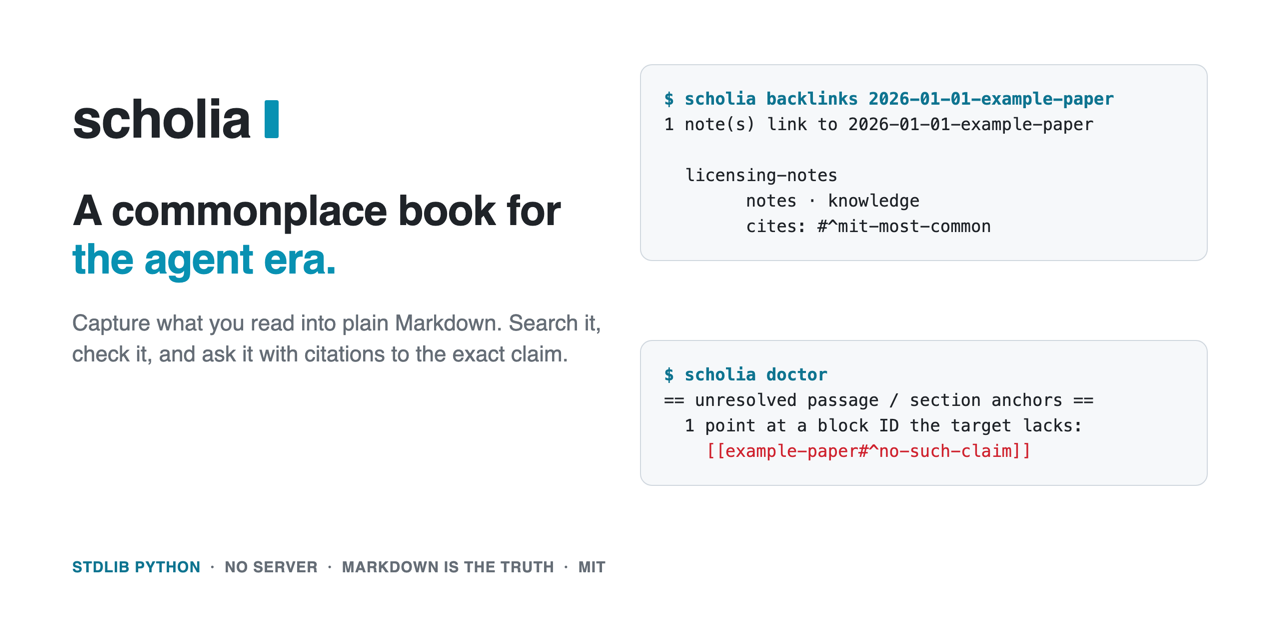
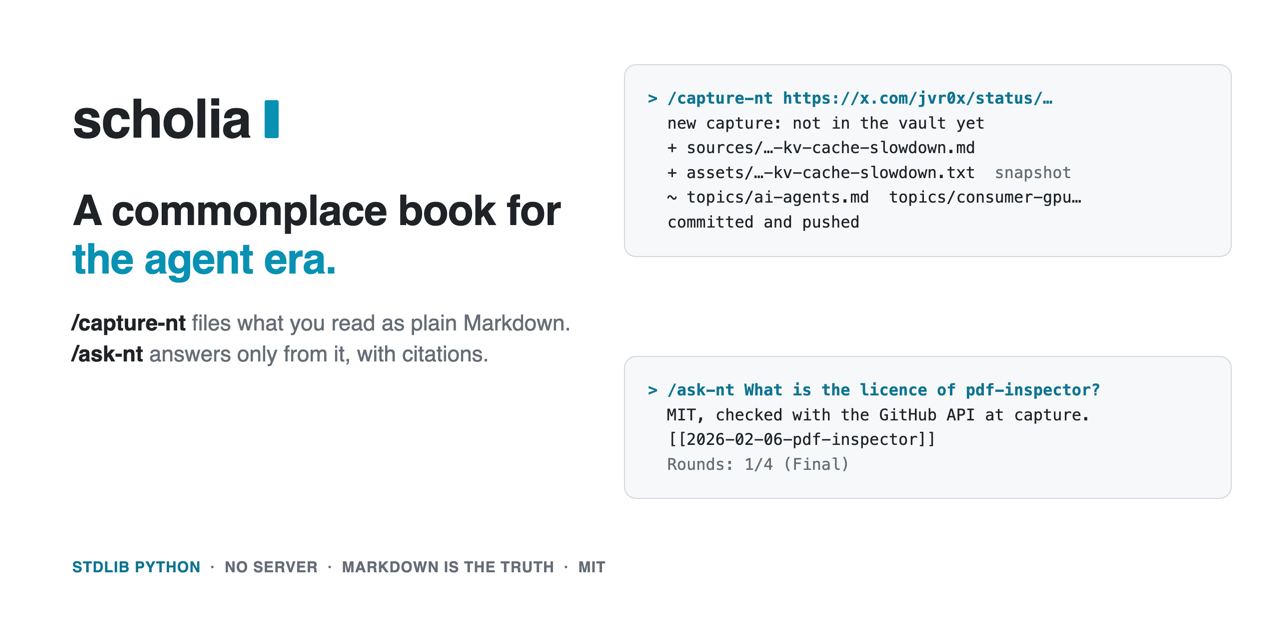
marketing: social card shows only /capture-nt and /ask-nt, from real runs

diff --git a/marketing/social.html b/marketing/social.html
@@ -1,7 +1,7 @@
 <!doctype html>
 <!-- The GitHub social card (1280x640). marketing/render-social.sh renders it to
-     marketing/social.png. The terminal text is real (lightly abridged) output from the smoke-test vault
-     (tests/smoke.sh): `scholia backlinks` and `scholia doctor`. -->
+     marketing/social.png. Both panels are real runs from the author's vault, abridged:
+     a /capture-nt commit (8a3a6de, 2026-09-24) and a cold /ask-nt run (2026-09-24). -->
 <html><head><meta charset="utf-8">
 <style>
   html, body { margin: 0; background: #ffffff; }
@@ -17,27 +17,27 @@
   .facts { position: absolute; left: 72px; bottom: 64px; font-size: 15px; font-weight: 600;
            letter-spacing: 0.04em; color: #656d76; text-transform: uppercase; }
   .facts b { color: #0e7490; font-weight: 700; }
-  pre { position: absolute; left: 640px; width: 520px; margin: 0; padding: 22px 24px;
+  pre { position: absolute; left: 624px; width: 560px; margin: 0; padding: 22px 24px;
         background: #f6f8fa; border-radius: 12px; box-shadow: 0 0 0 1px #d0d7de inset;
-        font: 17px/1.5 ui-monospace, Menlo, Consolas, monospace; color: #1f2328; white-space: pre; }
-  pre b { color: #0e7490; } pre s { text-decoration: none; color: #cf222e; }
-  .t1 { top: 64px; } .t2 { top: 340px; }
+        font: 16px/1.55 ui-monospace, Menlo, Consolas, monospace; color: #1f2328; white-space: pre; }
+  pre b { color: #0e7490; } pre i { font-style: normal; color: #656d76; }
+  .t1 { top: 64px; } .t2 { top: 356px; }
 </style></head>
 <body>
   <div class="copy">
     <div class="brand"><span>scholia</span><i></i></div>
     <h1>A commonplace book for <em>the agent era.</em></h1>
-    <p class="sub">Capture what you read into plain Markdown. Search it, check it, and ask it with citations to the exact claim.</p>
+    <p class="sub"><b style="color:#1f2328">/capture-nt</b> files what you read as plain Markdown. <b style="color:#1f2328">/ask-nt</b> answers only from it, with citations.</p>
   </div>
   <div class="facts"><b>stdlib python</b> &nbsp;·&nbsp; no server &nbsp;·&nbsp; markdown is the truth &nbsp;·&nbsp; MIT</div>
-<pre class="t1"><b>$ scholia backlinks 2026-01-01-example-paper</b>
-1 note(s) link to 2026-01-01-example-paper
-
-  licensing-notes
-        notes · knowledge
-        cites: #^mit-most-common</pre>
-<pre class="t2"><b>$ scholia doctor</b>
-== unresolved passage / section anchors ==
-  1 point at a block ID the target lacks:
-    <s>[[example-paper#^no-such-claim]]</s></pre>
+<pre class="t1"><b>&gt; /capture-nt https://x.com/jvr0x/status/…</b>
+  new capture: not in the vault yet
+  + sources/…-kv-cache-slowdown.md
+  + assets/…-kv-cache-slowdown.txt  <i>snapshot</i>
+  ~ topics/ai-agents.md  topics/consumer-gpu…
+  committed and pushed</pre>
+<pre class="t2"><b>&gt; /ask-nt What is the licence of pdf-inspector?</b>
+  MIT, checked with the GitHub API at capture.
+  [[2026-02-06-pdf-inspector]]
+  <i>Rounds: 1/4 (Final)</i></pre>
 </body></html>
